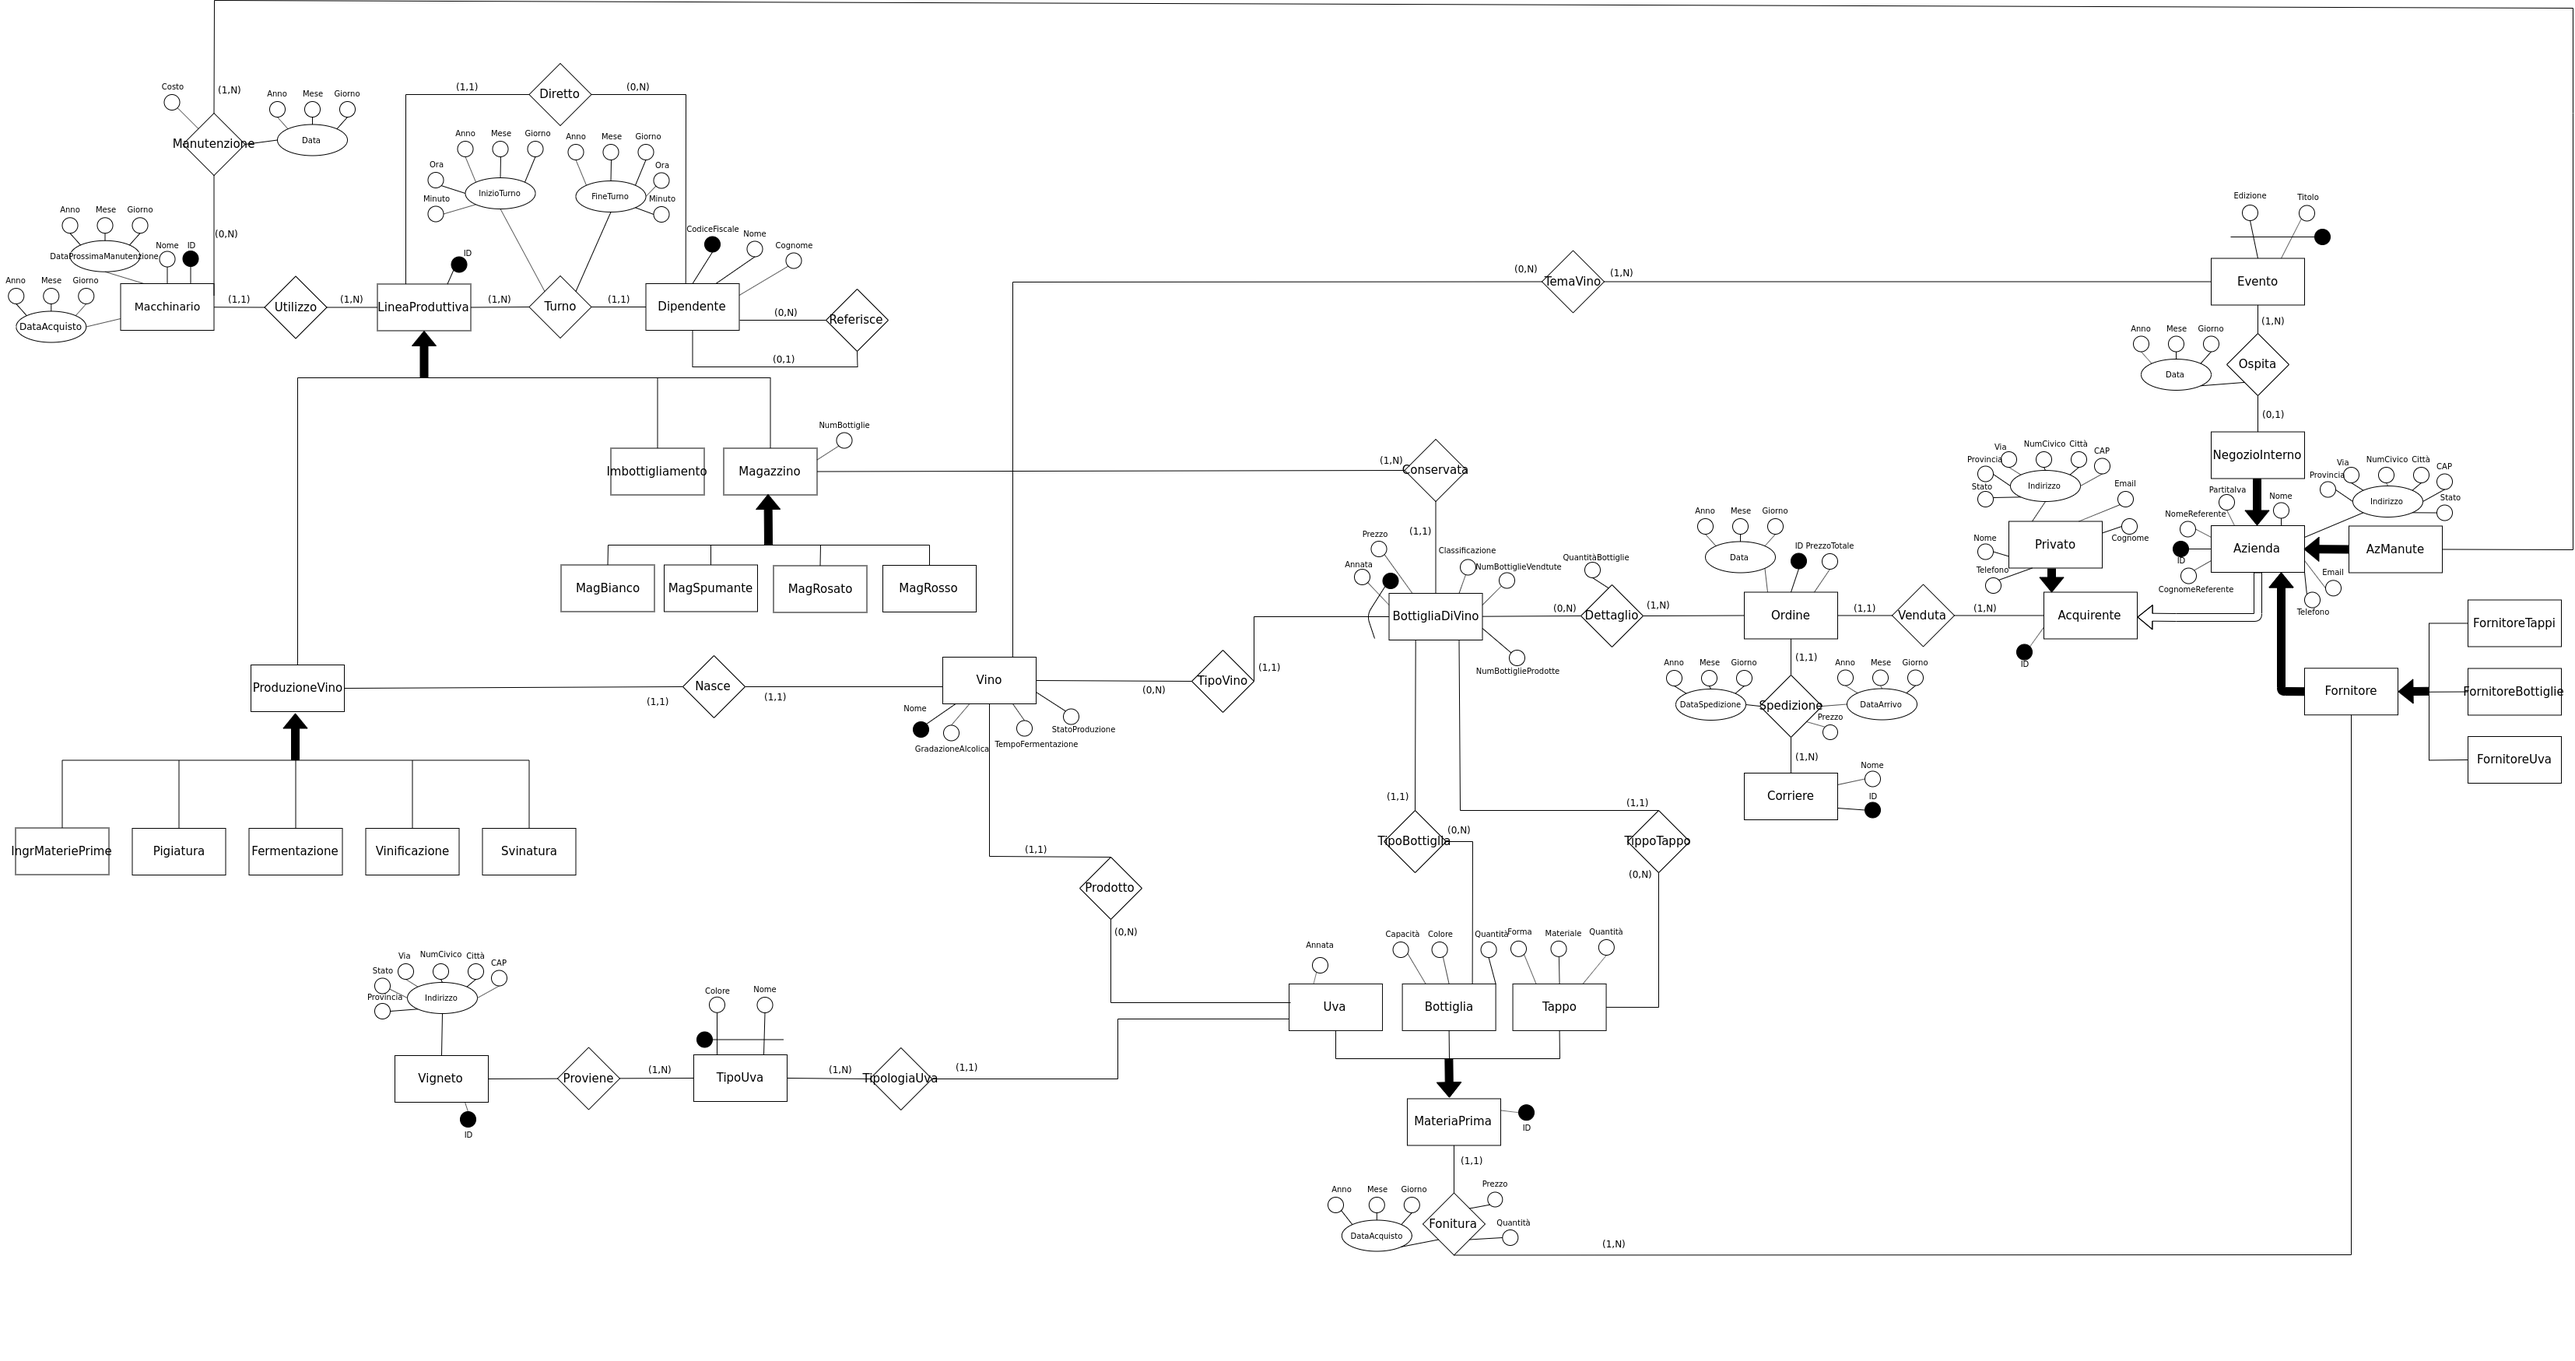
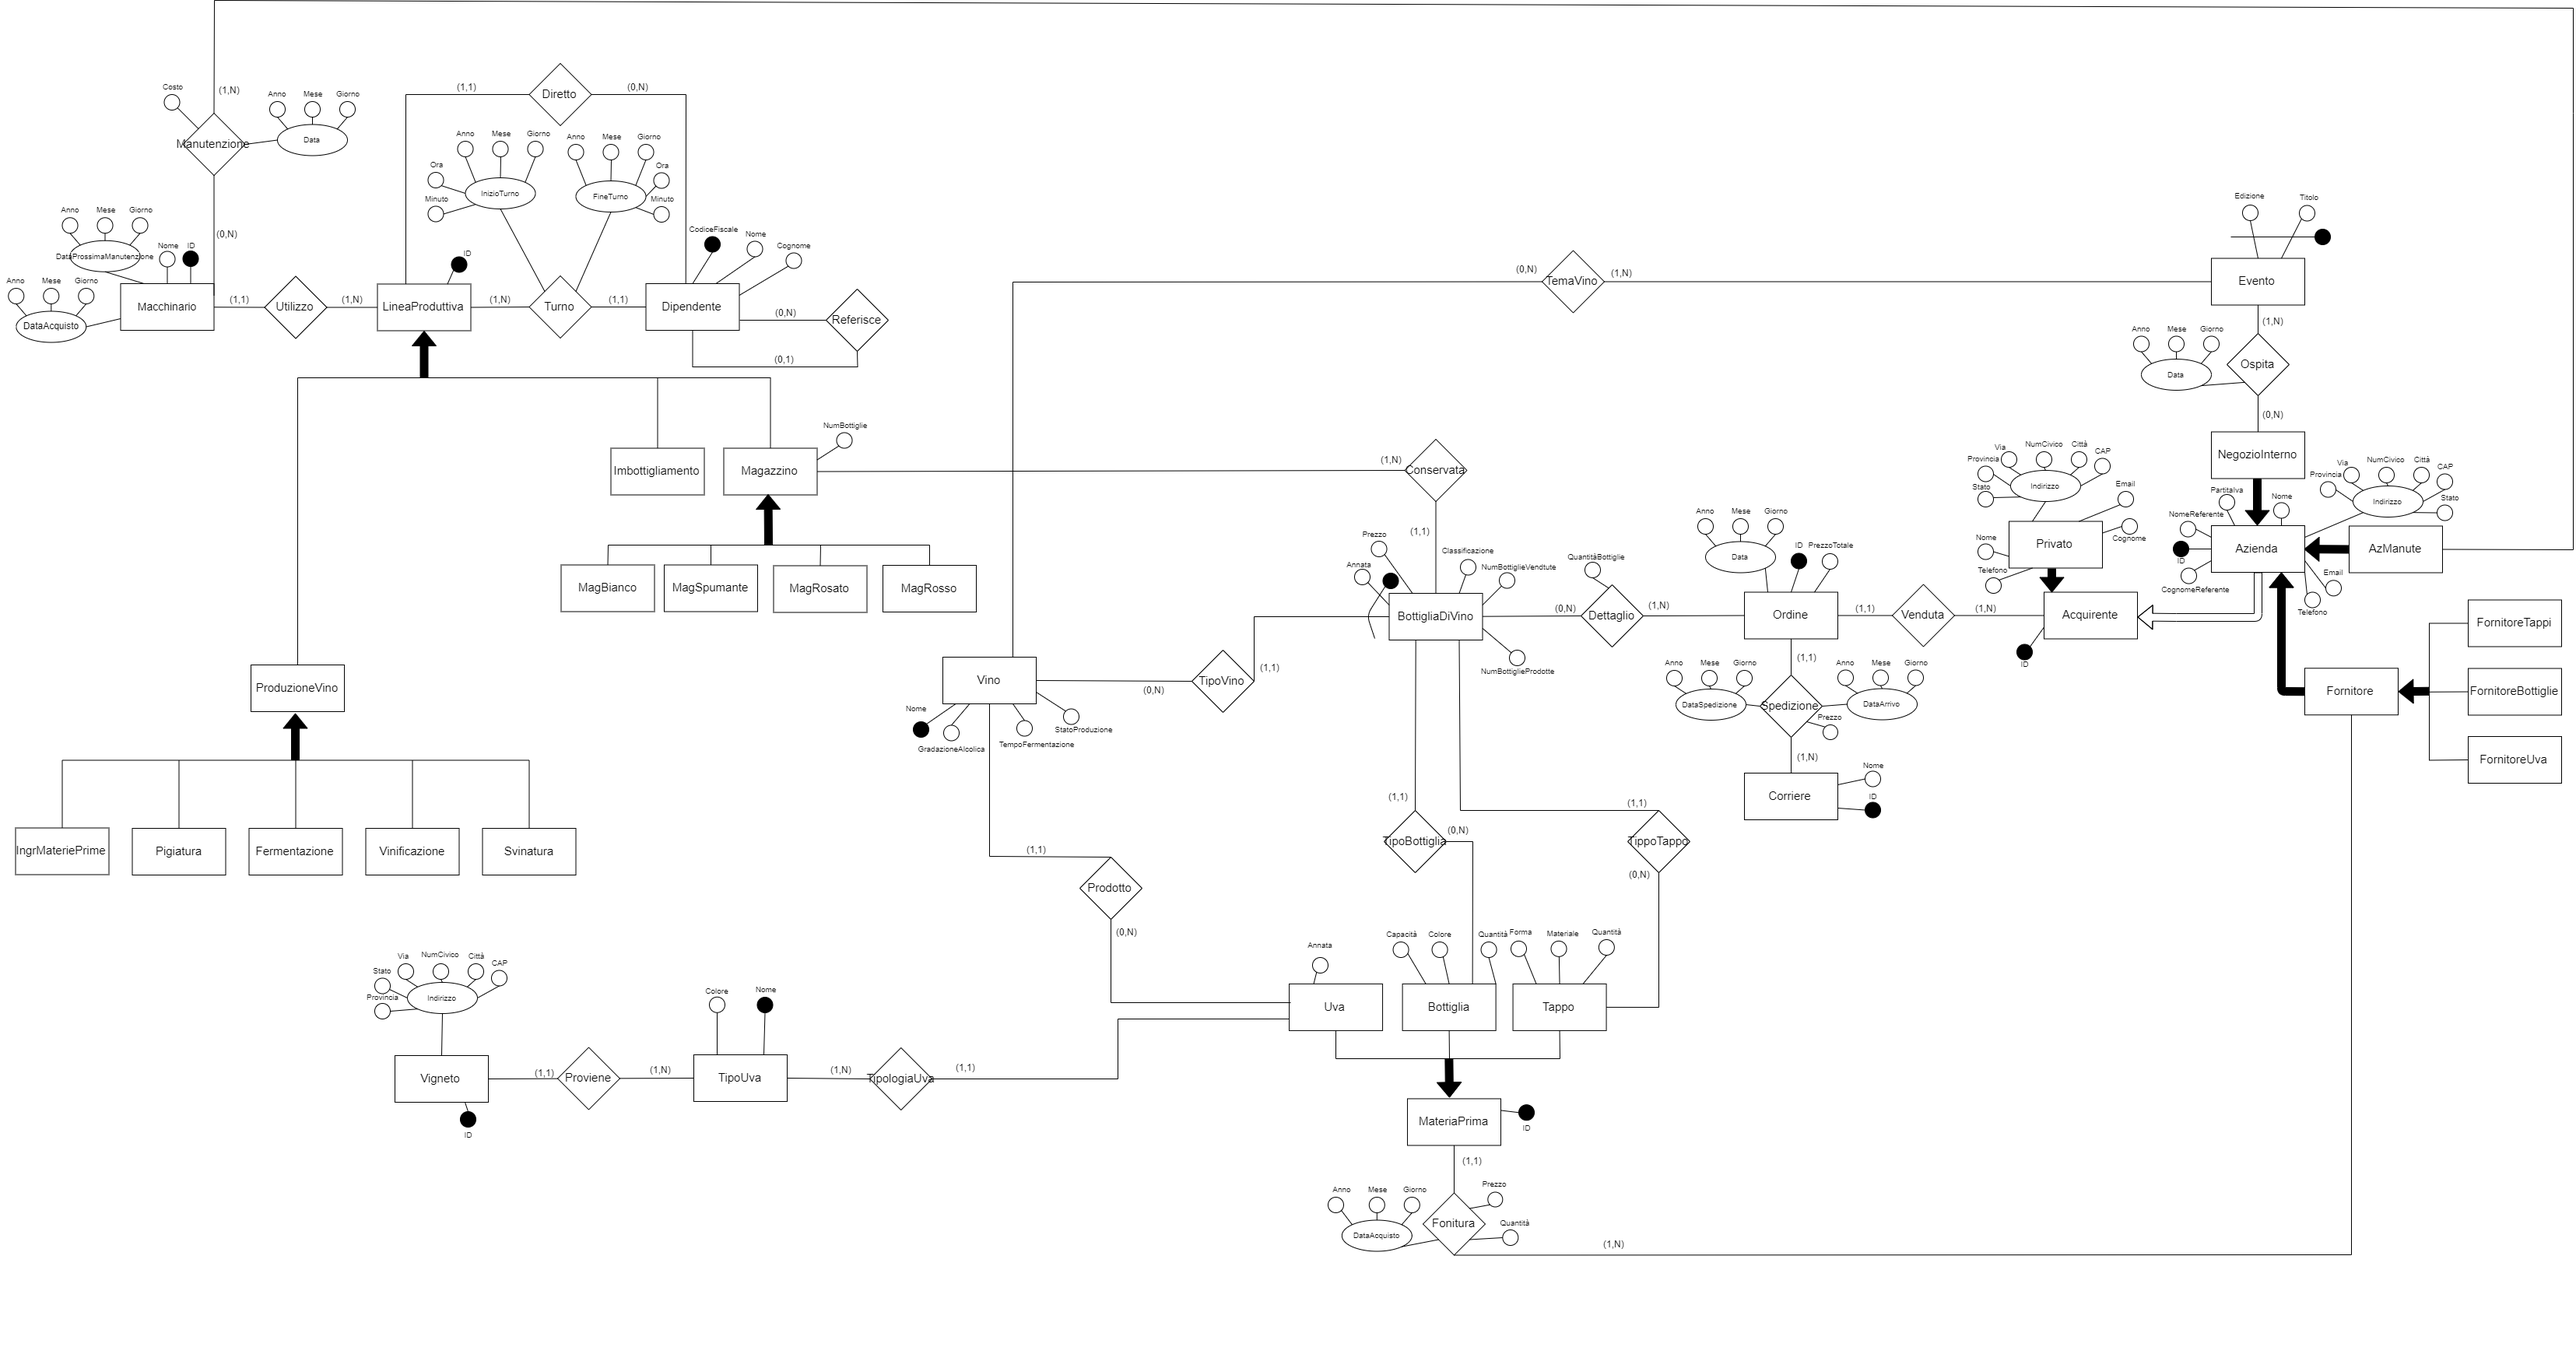
Aggiunta alcune cardinalità mancanti e errori generici

diff --git a/src/progettazioneConcettuale/analisi_relazioni.tex b/src/progettazioneConcettuale/analisi_relazioni.tex
@@ -1,14 +1,4 @@
 \begin{itemize}
-	\item \underline{Vigneto - Vigna}: \textbf{Coltivata}
-	
-	\begin{itemize}
-		\item Nel vigneto sono presenti uno o più vigne (1,N)
-		\item Una vigna è presente in un solo vigneto (1,1)
-	\end{itemize}
-	
-\end{itemize}
-
-\begin{itemize}
 	\item \underline{Vigneto - TipoUva}: \textbf{Proviene}
 	
 	\begin{itemize}
@@ -147,6 +137,11 @@
 	\end{itemize}
 	
 \end{itemize}
+
+\begin{verse}
+	*\emph{Nella relazione è presente l'attributo \textbf{Data} perchè un evento può essere ospitato in un negozio in una sola determinata data.}
+\end{verse}
+
 
 \begin{itemize}
 	\item \underline{Evento - Vino}: \textbf{TemaVino}

diff --git a/main.tex b/main.tex
@@ -8,10 +8,8 @@
 %\usepackage[compact]{titlesec}
 \usepackage[margin=0.8in, includefoot]{geometry}
 \usepackage{longtable}
-<<<<<<< HEAD
+
 \usepackage{graphicx}
-=======
->>>>>>> a5af1eee34f630ccbe0fc1d26200c31dde79dba6
 
 \newcolumntype{P}[1]{>{\centering\arraybackslash}p{#1}}
 %\titleformat{\chapter}[display]{\bfseries}{}{-30pt}{\Huge}
